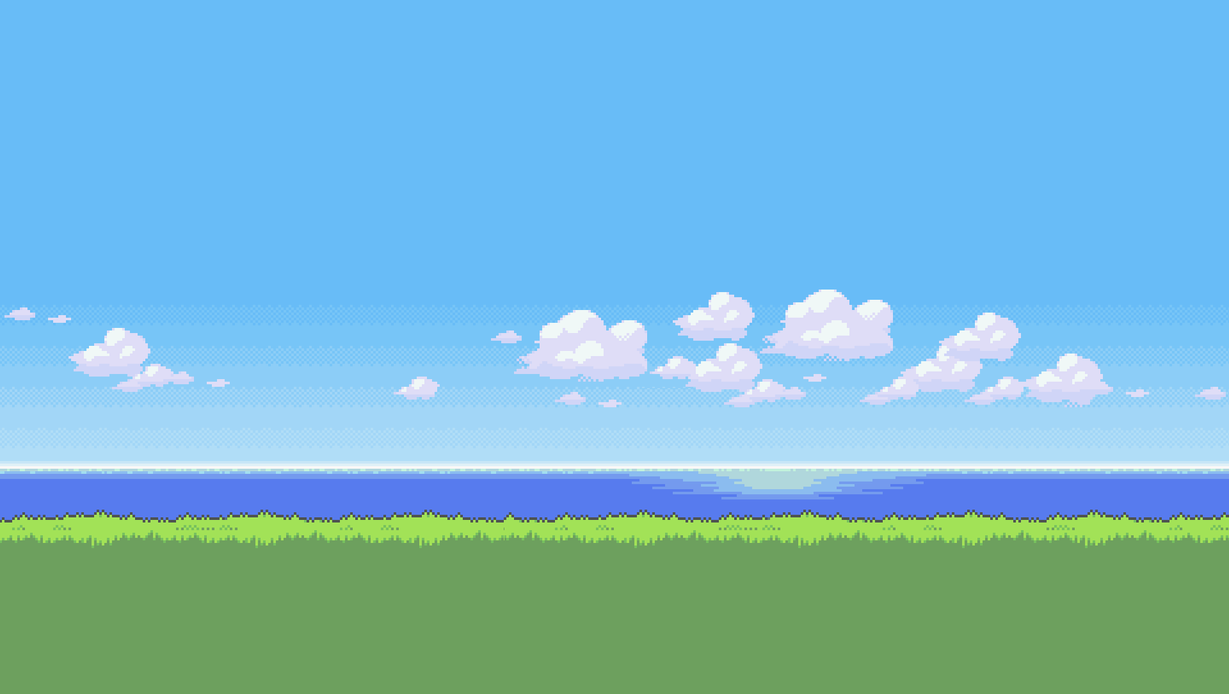
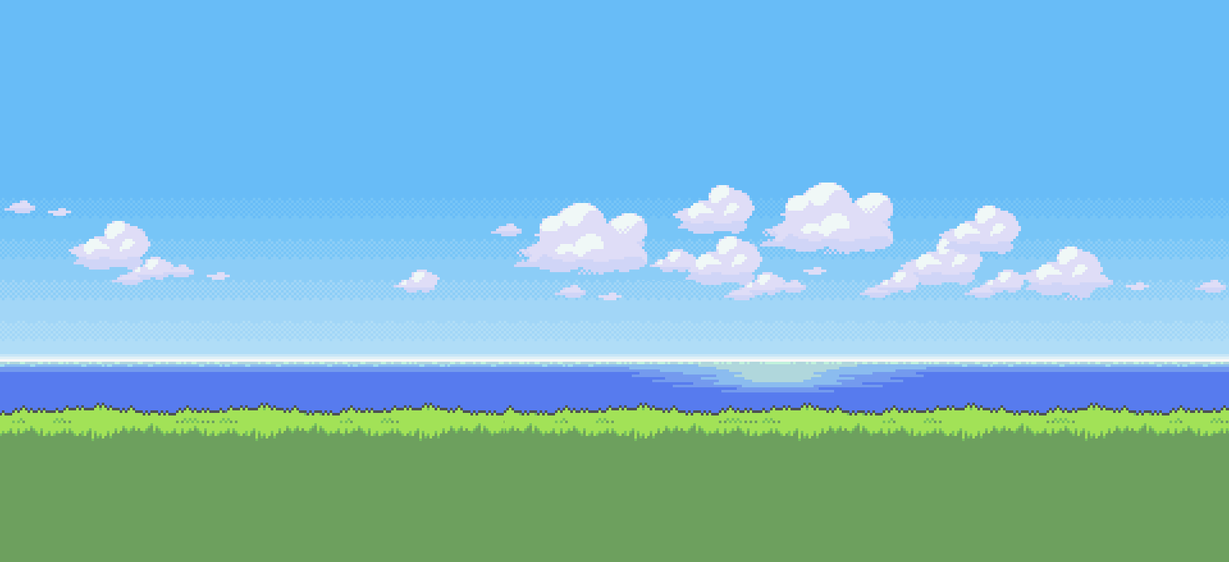
add play screen for later, resize background, absolute position for house

Changed region(s): [[0.0, 0.3025, 1.0, 0.7865], [0.0, 0.363, 0.0618, 0.3932]]

diff --git a/views/Play.jsx b/views/Play.jsx
@@ -1,0 +1,24 @@
+import React from "react";
+
+class Play extends React.Component {
+  render() {
+    return (
+      <html>
+        <head>
+          <title>{this.props.title}</title>
+          <link rel="stylesheet" href="stylesheets/style.css"/>
+          <link rel="stylesheet" href="https://use.fontawesome.com/releases/v5.8.0/css/all.css" integrity="sha384-Mmxa0mLqhmOeaE8vgOSbKacftZcsNYDjQzuCOm6D02luYSzBG8vpaOykv9lFQ51Y" crossOrigin="anonymous"/>
+          <link rel="shortcut icon" type="image/x-icon" href="favicon.ico"/>
+        </head>
+        <body>
+          <script src="javascripts/play.js"></script>
+          <div className="center-text">
+            <h1 className="desktop-h1">Coming soon...</h1>
+          </div>
+        </body>
+      </html>
+    );
+  }
+}
+
+export default Play;

diff --git a/public/stylesheets/style.css b/public/stylesheets/style.css
@@ -4,13 +4,20 @@
 body {
   font: 18px PressStart;
   color: #595959;
-  padding: 5px;
+  padding: 0px;
+  margin: 0;
+}
+
+html {
   background-image: url("../images/background.png");
   background-size: cover;
+  background-repeat: no-repeat;
+  background-color: #7fad71;
 }
 
 html, body {
   height: 100%;
+  overflow: hidden;
 }
 
 a {
@@ -27,12 +34,13 @@ a:hover {
 }
 
 .desktop-h1 {
-  margin-top: 50px;
+  margin-top: 70px;
 }
 
 .house-container {
-  margin-top: 100px;
   margin-left: 50px;
+  position: absolute;
+  bottom: 20px;
 }
 
 .house {

diff --git a/src/app.ts b/src/app.ts
@@ -3,6 +3,7 @@ import path from "path";
 
 import * as errorController from "./controllers/errorController";
 import * as homeController from "./controllers/homeController";
+import * as playController from "./controllers/playController";
 
 const app = express();
 
@@ -18,6 +19,7 @@ app.use(express.static(path.join(__dirname, "../public")));
 // routes
 app.get("/", homeController.index(false));
 app.get("/es", homeController.index(true));
+app.get("/play", playController.index);
 app.get("*", errorController.index);
 
 // listen

diff --git a/views/Error.jsx b/views/Error.jsx
@@ -11,7 +11,7 @@ class Error extends React.Component {
 
         <body>
           <div className="center-text">
-            <h1>Error: Page not found</h1>
+            <h1 className="desktop-h1">Error: Page not found</h1>
           </div>
         </body>
       </html>

diff --git a/src/controllers/playController.ts b/src/controllers/playController.ts
@@ -1,0 +1,11 @@
+import { Request, Response } from "express";
+
+/**
+ * GET /
+ * Error page.
+ */
+export let index = (_: Request, res: Response) => {
+  res.render("Play", {
+    title: "Emmanuel Suarez"
+  });
+};
